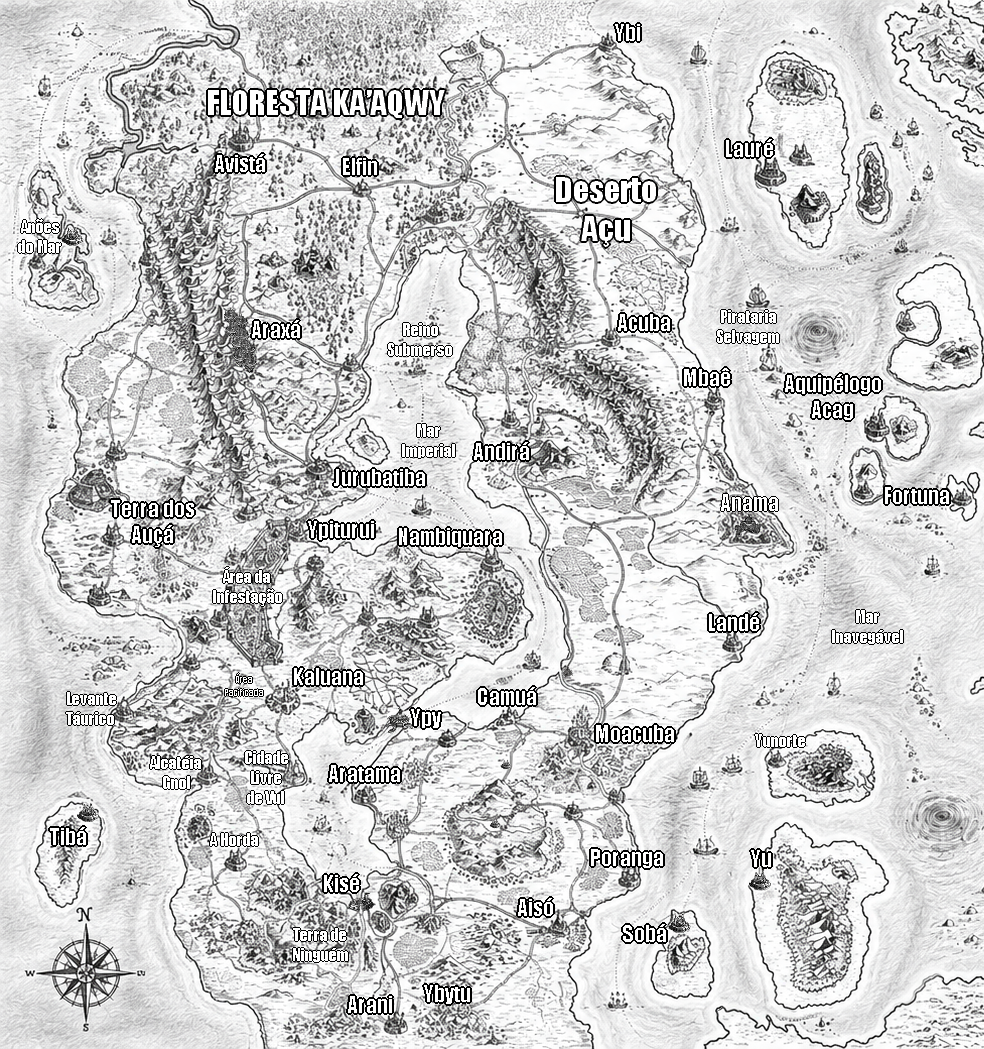
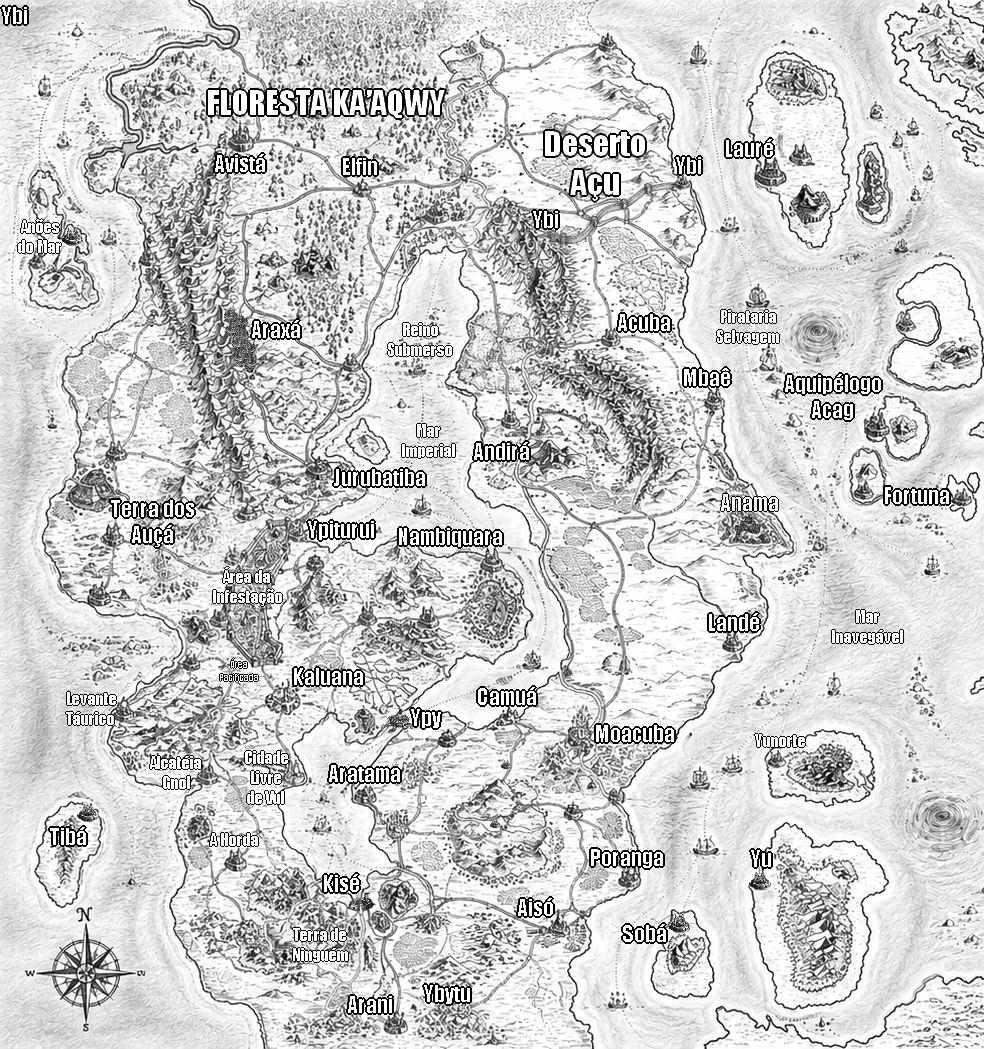
adicionado o AGENTS.md

diff --git a/mapa_ajuda.py b/mapa_ajuda.py
@@ -1,0 +1,95 @@
+#!/usr/bin/env python3
+"""
+mapa_ajuda.py — ajuda a manter as áreas clicáveis do mapa quando a imagem muda.
+
+    python mapa_ajuda.py conferir   # compara fonte/mapa-interativo.json com a imagem atual
+    python mapa_ajuda.py numerar    # numera todos os nomes que existem no mapa e mostra as coordenadas
+
+Precisa de:  pip install pillow numpy opencv-python-headless
+Funciona porque os nomes do mapa são preto puro com contorno branco: o script acha esses textos sozinho.
+"""
+import json
+import sys
+from pathlib import Path
+
+import cv2
+import numpy as np
+from PIL import Image
+
+RAIZ = Path(__file__).parent
+JSON = RAIZ / "fonte" / "mapa-interativo.json"
+
+
+def detecta(img_path):
+    """Retorna as caixas [x1,y1,x2,y2] de cada linha de texto do mapa."""
+    im = np.array(Image.open(img_path).convert("L"))
+    txt = (im <= 8).astype(np.uint8)
+    n, lab, st, _ = cv2.connectedComponentsWithStats(txt, connectivity=8)
+    limpo = np.zeros_like(txt)
+    for i in range(1, n):
+        if st[i, cv2.CC_STAT_AREA] >= 6:
+            limpo[lab == i] = 1
+    d = cv2.dilate(limpo, cv2.getStructuringElement(cv2.MORPH_RECT, (11, 5)))
+    n, lab, st, _ = cv2.connectedComponentsWithStats(d, connectivity=8)
+    caixas = [[int(x), int(y), int(x + w), int(y + h)] for i in range(1, n) for x, y, w, h, _a in [st[i]]
+              if w >= 14 and h >= 8]
+    return sorted(caixas, key=lambda b: (b[1] // 30, b[0]))
+
+
+def centro(b):
+    return (b[0] + b[2]) / 2, (b[1] + b[3]) / 2
+
+
+def dentro(ponto, caixa):
+    return caixa[0] <= ponto[0] <= caixa[2] and caixa[1] <= ponto[1] <= caixa[3]
+
+
+def desenha(img_path, caixas, rotulos, saida, cor):
+    im = cv2.imread(str(img_path))
+    for b, r in zip(caixas, rotulos):
+        cv2.rectangle(im, (b[0], b[1]), (b[2], b[3]), cor, 2)
+        cv2.putText(im, str(r), (b[0], max(12, b[1] - 3)), cv2.FONT_HERSHEY_SIMPLEX, 0.45, (255, 0, 0), 1)
+    cv2.imwrite(str(saida), im)
+
+
+def main():
+    modo = sys.argv[1] if len(sys.argv) > 1 else "conferir"
+    dados = json.loads(JSON.read_text(encoding="utf-8"))
+    img = RAIZ / "fonte" / "imagens" / dados["imagem"]
+    if Image.open(img).size != (dados["largura"], dados["altura"]):
+        sys.exit(f"A imagem tem tamanho diferente de {dados['largura']}x{dados['altura']}: "
+                 "atualize 'largura' e 'altura' no JSON e confira tudo de novo.")
+    achadas = detecta(img)
+
+    if modo == "numerar":
+        desenha(img, achadas, range(len(achadas)), RAIZ / "mapa-numerado.png", (0, 0, 255))
+        for i, b in enumerate(achadas):
+            print(f"{i:3d}  {b}")
+        print("\nImagem gerada: mapa-numerado.png  (cada linha de texto do mapa, com número e coordenadas)")
+        return
+
+    regioes = dados["regioes"]
+    sem_texto = [r for r in regioes if not any(dentro(centro(b), r["caixa"]) for b in achadas)]
+    sem_area = [b for b in achadas if not any(dentro(centro(b), r["caixa"]) for r in regioes)]
+    desenha(img, [r["caixa"] for r in regioes], [r["nome"] for r in regioes], RAIZ / "mapa-conferencia.png", (0, 160, 0))
+    for b in sem_area:
+        cv2_img = cv2.imread(str(RAIZ / "mapa-conferencia.png"))
+        cv2.rectangle(cv2_img, (b[0], b[1]), (b[2], b[3]), (0, 0, 255), 2)
+        cv2.imwrite(str(RAIZ / "mapa-conferencia.png"), cv2_img)
+
+    print(f"{len(regioes)} áreas clicáveis no JSON; {len(achadas)} linhas de texto no mapa.\n")
+    if sem_texto:
+        print("ATENÇÃO — áreas que não cobrem mais nenhum texto (o nome mudou de lugar ou saiu do mapa):")
+        for r in sem_texto:
+            print(f"   {r['nome']}: {r['caixa']}")
+    else:
+        print("Todas as áreas do JSON ainda cobrem um nome do mapa.")
+    if sem_area:
+        print("\nTextos do mapa SEM área clicável (se quiser link, adicione no JSON; se não, tudo bem):")
+        for b in sem_area:
+            print(f"   {b}")
+    print("\nImagem gerada: mapa-conferencia.png  (verde = áreas do JSON, vermelho = texto sem área)")
+
+
+if __name__ == "__main__":
+    main()

diff --git a/docs/index.md b/docs/index.md
@@ -7,8 +7,7 @@ Nas fronteiras deste mundo há muitos perigos, espécies e monstros que ameaçam
 <img src="imagens/Mapa_de_Airy_2025.png" alt="Mapa de Airy" style="display:block;width:100%;height:auto">
 <a href="mundo/floresta-kaaqwy/" title="Floresta Ka’aqwy" aria-label="Floresta Ka’aqwy" style="position:absolute;display:block;border-radius:4px;left:20.12%;top:7.91%;width:26.02%;height:4.00%"></a>
 <a href="reinos/elfin/" title="Elfin" aria-label="Elfin" style="position:absolute;display:block;border-radius:4px;left:33.84%;top:14.39%;width:5.49%;height:2.96%"></a>
-<a href="mundo/deserto-acu/" title="Deserto Açu" aria-label="Deserto Açu" style="position:absolute;display:block;border-radius:4px;left:55.49%;top:16.21%;width:12.20%;height:8.01%"></a>
-<a href="reinos/ybi/" title="Ybi" aria-label="Ybi" style="position:absolute;display:block;border-radius:4px;left:61.48%;top:1.62%;width:4.57%;height:2.96%"></a>
+<a href="mundo/deserto-acu/" title="Deserto Açu" aria-label="Deserto Açu" style="position:absolute;display:block;border-radius:4px;left:54.37%;top:11.82%;width:12.20%;height:7.82%"></a>
 <a href="reinos/laure/" title="Lauré" aria-label="Lauré" style="position:absolute;display:block;border-radius:4px;left:72.76%;top:12.58%;width:6.81%;height:3.24%"></a>
 <a href="mundo/reino-submerso/" title="Reino Submerso" aria-label="Reino Submerso" style="position:absolute;display:block;border-radius:4px;left:38.52%;top:30.22%;width:8.33%;height:4.29%"></a>
 <a href="reinos/acuba/" title="Acuba" aria-label="Acuba" style="position:absolute;display:block;border-radius:4px;left:61.79%;top:29.27%;width:7.32%;height:2.96%"></a>
@@ -22,7 +21,7 @@ Nas fronteiras deste mundo há muitos perigos, espécies e monstros que ameaçam
 <a href="imperio/reinos-vassalos/nambiquara/" title="Nambiquara" aria-label="Nambiquara" style="position:absolute;display:block;border-radius:4px;left:39.53%;top:49.67%;width:12.50%;height:3.15%"></a>
 <a href="imperio/estados-tampoes/area-da-infestacao/" title="Área da Infestação" aria-label="Área da Infestação" style="position:absolute;display:block;border-radius:4px;left:20.73%;top:53.48%;width:8.84%;height:4.86%"></a>
 <a href="imperio/reinos-vassalos/kaluana/" title="Kaluana" aria-label="Kaluana" style="position:absolute;display:block;border-radius:4px;left:28.86%;top:63.01%;width:9.04%;height:2.96%"></a>
-<a href="imperio/estados-tampoes/territorio-pacificado/" title="Área Pacificada" aria-label="Área Pacificada" style="position:absolute;display:block;border-radius:4px;left:21.95%;top:63.58%;width:5.69%;height:3.34%"></a>
+<a href="imperio/estados-tampoes/territorio-pacificado/" title="Área Pacificada" aria-label="Área Pacificada" style="position:absolute;display:block;border-radius:4px;left:21.44%;top:62.15%;width:5.69%;height:3.34%"></a>
 <a href="imperio/reinos-vassalos/camua/" title="Camuá" aria-label="Camuá" style="position:absolute;display:block;border-radius:4px;left:47.56%;top:64.82%;width:7.93%;height:3.05%"></a>
 <a href="imperio/reinos-vassalos/ypy/" title="Ypy" aria-label="Ypy" style="position:absolute;display:block;border-radius:4px;left:40.75%;top:66.92%;width:5.08%;height:3.15%"></a>
 <a href="imperio/reinos-vassalos/moacuba/" title="Moacuba" aria-label="Moacuba" style="position:absolute;display:block;border-radius:4px;left:59.55%;top:68.45%;width:10.06%;height:2.96%"></a>
@@ -45,6 +44,8 @@ Nas fronteiras deste mundo há muitos perigos, espécies e monstros que ameaçam
 <a href="imperio/" title="Mar Imperial" aria-label="Mar Imperial" style="position:absolute;display:block;border-radius:4px;left:39.94%;top:39.85%;width:7.22%;height:4.10%"></a>
 <a href="reinos/tupasununga/" title="Landé" aria-label="Landé" style="position:absolute;display:block;border-radius:4px;left:71.04%;top:57.77%;width:7.11%;height:3.05%"></a>
 <a href="reinos/yu/" title="Yunorte" aria-label="Yunorte" style="position:absolute;display:block;border-radius:4px;left:75.81%;top:69.40%;width:6.91%;height:2.38%"></a>
+<a href="reinos/ybi/" title="Ybi (lado do mar)" aria-label="Ybi (lado do mar)" style="position:absolute;display:block;border-radius:4px;left:67.68%;top:14.30%;width:4.57%;height:2.96%"></a>
+<a href="reinos/ybi/" title="Ybi (lado da cordilheira)" aria-label="Ybi (lado da cordilheira)" style="position:absolute;display:block;border-radius:4px;left:53.15%;top:19.64%;width:4.57%;height:2.76%"></a>
 </div>
 
 *Clique no nome de um reino ou região para abrir a página.*

diff --git a/fonte/ARCANO.md b/fonte/ARCANO.md
@@ -5,8 +5,7 @@
 <img src="imagens/Mapa_de_Airy_2025.png" alt="Mapa de Airy" style="display:block;width:100%;height:auto">
 <a href="#floresta-kaaqwy" title="Floresta Ka’aqwy" aria-label="Floresta Ka’aqwy" style="position:absolute;display:block;border-radius:4px;left:20.12%;top:7.91%;width:26.02%;height:4.00%"></a>
 <a href="#elfin" title="Elfin" aria-label="Elfin" style="position:absolute;display:block;border-radius:4px;left:33.84%;top:14.39%;width:5.49%;height:2.96%"></a>
-<a href="#deserto-açu" title="Deserto Açu" aria-label="Deserto Açu" style="position:absolute;display:block;border-radius:4px;left:55.49%;top:16.21%;width:12.20%;height:8.01%"></a>
-<a href="#ybi" title="Ybi" aria-label="Ybi" style="position:absolute;display:block;border-radius:4px;left:61.48%;top:1.62%;width:4.57%;height:2.96%"></a>
+<a href="#deserto-açu" title="Deserto Açu" aria-label="Deserto Açu" style="position:absolute;display:block;border-radius:4px;left:54.37%;top:11.82%;width:12.20%;height:7.82%"></a>
 <a href="#lauré" title="Lauré" aria-label="Lauré" style="position:absolute;display:block;border-radius:4px;left:72.76%;top:12.58%;width:6.81%;height:3.24%"></a>
 <a href="#o-reino-submerso" title="Reino Submerso" aria-label="Reino Submerso" style="position:absolute;display:block;border-radius:4px;left:38.52%;top:30.22%;width:8.33%;height:4.29%"></a>
 <a href="#acuba" title="Acuba" aria-label="Acuba" style="position:absolute;display:block;border-radius:4px;left:61.79%;top:29.27%;width:7.32%;height:2.96%"></a>
@@ -20,7 +19,7 @@
 <a href="#nambiquara" title="Nambiquara" aria-label="Nambiquara" style="position:absolute;display:block;border-radius:4px;left:39.53%;top:49.67%;width:12.50%;height:3.15%"></a>
 <a href="#a-área-da-infestação" title="Área da Infestação" aria-label="Área da Infestação" style="position:absolute;display:block;border-radius:4px;left:20.73%;top:53.48%;width:8.84%;height:4.86%"></a>
 <a href="#kaluana" title="Kaluana" aria-label="Kaluana" style="position:absolute;display:block;border-radius:4px;left:28.86%;top:63.01%;width:9.04%;height:2.96%"></a>
-<a href="#território-pacificado" title="Área Pacificada" aria-label="Área Pacificada" style="position:absolute;display:block;border-radius:4px;left:21.95%;top:63.58%;width:5.69%;height:3.34%"></a>
+<a href="#território-pacificado" title="Área Pacificada" aria-label="Área Pacificada" style="position:absolute;display:block;border-radius:4px;left:21.44%;top:62.15%;width:5.69%;height:3.34%"></a>
 <a href="#camuá" title="Camuá" aria-label="Camuá" style="position:absolute;display:block;border-radius:4px;left:47.56%;top:64.82%;width:7.93%;height:3.05%"></a>
 <a href="#ypy" title="Ypy" aria-label="Ypy" style="position:absolute;display:block;border-radius:4px;left:40.75%;top:66.92%;width:5.08%;height:3.15%"></a>
 <a href="#moacuba" title="Moacuba" aria-label="Moacuba" style="position:absolute;display:block;border-radius:4px;left:59.55%;top:68.45%;width:10.06%;height:2.96%"></a>
@@ -43,6 +42,8 @@
 <a href="#império" title="Mar Imperial" aria-label="Mar Imperial" style="position:absolute;display:block;border-radius:4px;left:39.94%;top:39.85%;width:7.22%;height:4.10%"></a>
 <a href="#tupãsununga" title="Landé" aria-label="Landé" style="position:absolute;display:block;border-radius:4px;left:71.04%;top:57.77%;width:7.11%;height:3.05%"></a>
 <a href="#yu" title="Yunorte" aria-label="Yunorte" style="position:absolute;display:block;border-radius:4px;left:75.81%;top:69.40%;width:6.91%;height:2.38%"></a>
+<a href="#ybi" title="Ybi (lado do mar)" aria-label="Ybi (lado do mar)" style="position:absolute;display:block;border-radius:4px;left:67.68%;top:14.30%;width:4.57%;height:2.96%"></a>
+<a href="#ybi" title="Ybi (lado da cordilheira)" aria-label="Ybi (lado da cordilheira)" style="position:absolute;display:block;border-radius:4px;left:53.15%;top:19.64%;width:4.57%;height:2.76%"></a>
 </div>
 
 <!-- INDICE:INICIO -->

diff --git a/README.md b/README.md
@@ -8,6 +8,7 @@ Site: https://M4T4R0.github.io/wiki-arcano/
 ```
 fonte/ARCANO.md                ← documento de origem (única fonte de verdade)
 gera_indice.py                 ← refaz o índice (com links) no topo do ARCANO.md
+mapa_ajuda.py                  ← confere/numera os nomes do mapa clicável
 fonte/imagens/                 ← imagens do ARCANO.md (o build copia para docs/imagens/)
 build_wiki.py                  ← gera docs/ e mkdocs.yml a partir da fonte
 pos_processamento.py           ← (chamado pelo build) tira personagens e guildas de dentro dos reinos
@@ -33,6 +34,24 @@ Para mudar pastas, nomes ou ordem do menu, edite só a lista `ESTRUTURA` no iní
 1. Coloque o arquivo em `fonte/imagens/` (nomes sem espaço e sem acento).
 2. No `ARCANO.md`, escreva `![descrição](imagens/arquivo.png)` onde ela deve aparecer (o preview do VS Code já mostra).
 3. `python build_wiki.py` copia a pasta para `docs/imagens/` e acerta o caminho em cada página. Nunca coloque imagens direto em `docs/`: o build apaga a pasta.
+
+## Mapa clicável
+
+O mapa da página inicial (e do topo do `ARCANO.md`) usa `fonte/imagens/Mapa_de_Airy_2025.png` e as áreas de
+`fonte/mapa-interativo.json`. Cada área tem `nome`, `alvo` (título da seção no ARCANO.md) e `caixa`
+`[x1, y1, x2, y2]` em pixels da imagem.
+
+**Quando o mapa mudar (nome trocado de lugar, nome novo, imagem nova):**
+1. Substitua o arquivo em `fonte/imagens/` (mesmo nome, mesmo tamanho).
+2. `python mapa_ajuda.py conferir` — diz quais áreas não cobrem mais nenhum nome e quais nomes do mapa estão sem
+   área. Gera `mapa-conferencia.png` (verde = área do JSON, vermelho = nome sem área).
+3. `python mapa_ajuda.py numerar` — gera `mapa-numerado.png` com todos os nomes numerados e imprime as coordenadas
+   de cada um. Copie as coordenadas para o JSON (some 3 pixels de folga em cada lado).
+4. Repita o passo 2 até não aparecer mais ATENÇÃO, depois `python gera_indice.py` e `python build_wiki.py`.
+
+Dois nomes na mesma linha do mapa (ex.: "Deserto" / "Açu") viram uma área só: use o menor x1/y1 e o maior x2/y2.
+O mesmo `alvo` pode aparecer em várias áreas (ex.: as duas pontas da muralha de Ybi).
+Precisa de `pip install pillow numpy opencv-python-headless` (só para o `mapa_ajuda.py`).
 
 ## Seções
 
